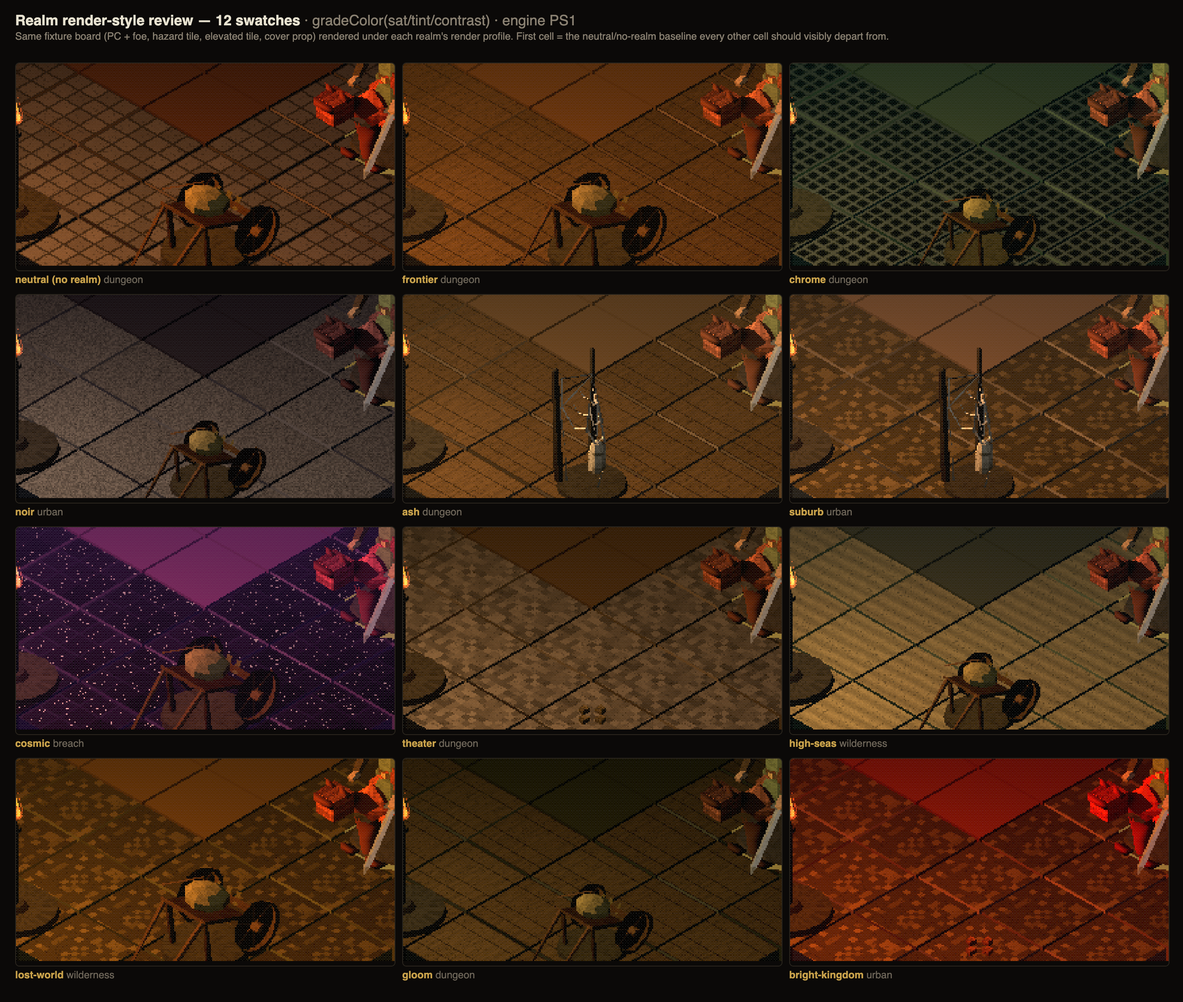
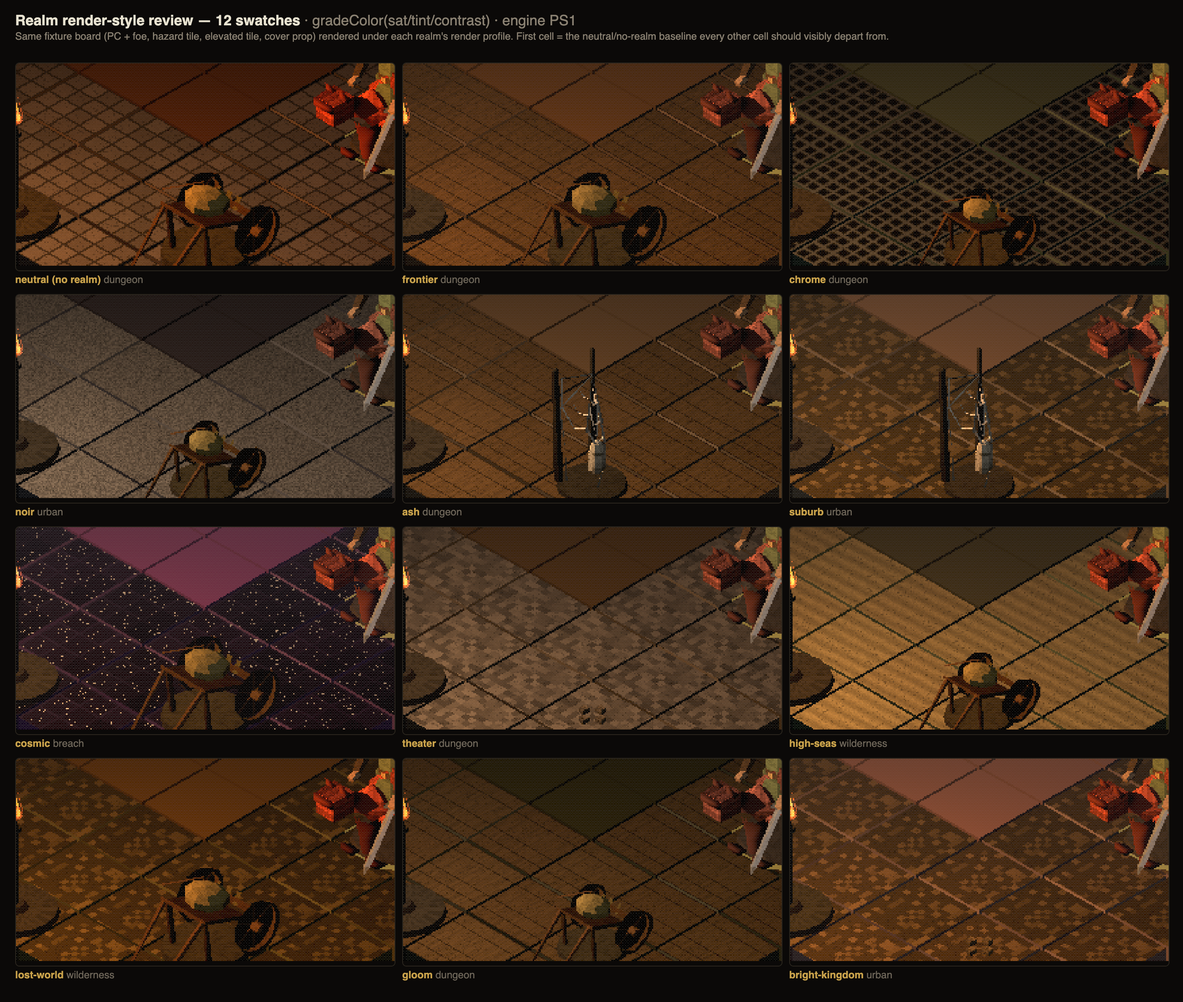
fix(render-style): bright-kingdom candy not lava (Adam's sheet review) + kill the mirror trap — theater-data stamps the resolved renderProfile on the board, theater-boot consumes the stamp (mirror = fallback only; the drift bit within hours)

diff --git a/src/ui/theater-boot.js b/src/ui/theater-boot.js
@@ -2665,7 +2665,7 @@ const REALM_RENDER_PROFILES = {
   "high-seas":       { sat: 0.85, tint: 0x3c7888, tintAmt: 0.20, contrast: 1.10 },
   "lost-world":      { sat: 1.00, tint: 0xc89a3c, tintAmt: 0.15, contrast: 1.05 },
   gloom:             { sat: 0.55, tint: 0x3a5c3e, tintAmt: 0.26, contrast: 1.25 },
-  "bright-kingdom":  { sat: 1.45, tint: 0xe83c64, tintAmt: 0.18, contrast: 1.15 }
+  "bright-kingdom": { sat: 1.25, tint: 0xffb0e0, tintAmt: 0.24, contrast: 0.92 }
 };
 // the neutral/no-realm baseline — sat1/tintAmt0/contrast1 is a byte-identical passthrough (§4's "no
 // realms -> byte-identical" regression law), mirrors data/realms.js's REALM_RENDER_DEFAULT exactly.
@@ -3430,7 +3430,10 @@ function setBoard(data){
   // void-tint grade below all read the identical profile for this render. Absent `data.realms` (a
   // non-realm room, an older snapshot, a narrow test fixture) -> realmRenderProfileLocal's own
   // REALM_RENDER_DEFAULT_LOCAL fallback, which every gradeColorLocal call treats as a no-op.
-  S.realmProfile = realmRenderProfileLocal(data.realms);
+  // the board's STAMPED profile (theater-data resolves it from data/realms.js, the single source)
+  // wins; the local mirror is only the fallback for pre-stamp snapshots. Mirror drift = the
+  // lava-red bright-kingdom incident, 2026-07-05.
+  S.realmProfile = data.renderProfile || realmRenderProfileLocal(data.realms);
   const voidTint = gradeColorLocal(voidTintFor(env), S.realmProfile);
   if(S.scene){
     S.scene.background = new THREE.Color(voidTint);

diff --git a/data/realms.js b/data/realms.js
@@ -106,7 +106,7 @@ const REALMS = {
     label: "Bright Kingdom",
     register: "Toybox/anachronism/whimsical wonder — power-ups you EAT, rules a child could recite, teeth underneath the candy.",
     voice: ["a fanfare for a small victory", "a rule everyone already knows", "a prize that's watching you", "the too-bright color of a warning"],
-    render: { sat: 1.45, tint: "#e83c64", tintAmt: 0.18, contrast: 1.15 },
+    render: { sat: 1.25, tint: "#ffb0e0", tintAmt: 0.24, contrast: 0.92 },  // Adam 2026-07-05: candyland/mushroom-kingdom, NOT lava — cotton-candy pink tint, lifted contrast (bright+airy), the old #e83c64 red read as a fire level
   },
   "realm-neutral": {
     id: "realm-neutral",

diff --git a/src/engine/theater-data.js b/src/engine/theater-data.js
@@ -879,6 +879,10 @@ function theaterBoardFrom(segment, scene, opts){
     // setBoard) can resolve the SAME render profile this function used for tile tints, to grade the
     // void background + light colors it owns (this pure layer has no GL/THREE concept of either).
     realms: opts.realms,
+    // ...and the RESOLVED profile itself, stamped so the GL layer consumes THIS object instead of
+    // re-deriving from its mirrored table (the mirror drifted within hours — Adam's lava-red
+    // bright-kingdom was the mirror's stale value. Stamp > sync-by-convention).
+    renderProfile: renderProfile,
     grid: { bands, lanes, bandCount: grid.bandCount, laneCount: grid.laneCount }
   };
 }
